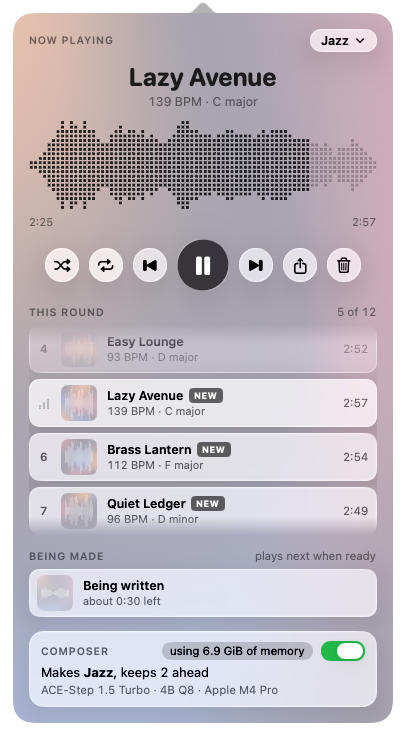
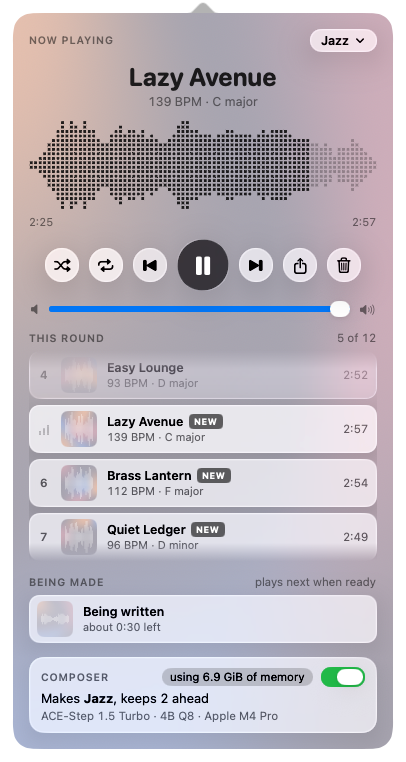
docs: the light screenshot with the volume slider
playing-light retaken from the demo with the picture held still, now
with the volume slider under the round controls; its alt text says so.

diff --git a/README.md b/README.md
@@ -56,7 +56,7 @@ from Omarchy.
   <tr>
     <td><img src="docs/screenshots/own-words.png" width="250" alt="The sheet for a tune with your own words: buttons that insert verse, chorus, bridge and instrumental break marks, a text box with the words, a count of sung lines and characters, a suggested name, and Compose."></td>
     <td><img src="docs/screenshots/editor.png" width="250" alt="Editing a sung genre in grouped rows, its name selected for typing: prompt, variations, tempo range, the Singing switch with its explanation, four colour wells, and the buttons to delete, cancel or save."></td>
-    <td><img src="docs/screenshots/playing-light.png" width="250" alt="The playing state in light appearance: the same layout on a pale wash of the genre's colours with dark text."></td>
+    <td><img src="docs/screenshots/playing-light.png" width="250" alt="The playing state in light appearance: the same layout, volume slider under the round controls included, on a pale wash of the genre's colours with dark text."></td>
   </tr>
 </table>
 
